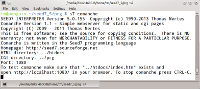
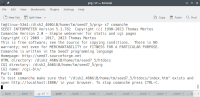
Update homepage

diff --git a/manual/types.htm b/manual/types.htm
@@ -1809,9 +1809,21 @@ Seed7 Manual: Predefined types</title>
                     <span class="stri">"abcde"</span>[2 <span class="keywd">len</span> 3] <b>&rArr;</b> <span class="stri">"bcd"</span>,
                     <span class="stri">"abcde"</span>[2 <span class="keywd">len</span> 5] <b>&rArr;</b> <span class="stri">"bcde"</span>,
                     <span class="stri">"abcde"</span>[3 <span class="keywd">len</span> 0] <b>&rArr;</b> <span class="stri">""</span>,
+                    <span class="stri">"abcde"</span>[6 <span class="keywd">len</span> 2] <b>&rArr;</b> <span class="stri">""</span>,
                     <span class="stri">"abcde"</span>[3 <span class="keywd">len</span> -1] <b>&rArr;</b> EXCEPTION <a class="exception" href="errors.htm#INDEX_ERROR">INDEX_ERROR</a>,
                     <span class="stri">"abcde"</span>[1 <span class="keywd">len</span> 2] <b>&rArr;</b> <span class="stri">"ab"</span>,
                     <span class="stri">"abcde"</span>[0 <span class="keywd">len</span> 2] <b>&rArr;</b> EXCEPTION <a class="exception" href="errors.htm#INDEX_ERROR">INDEX_ERROR</a> )
+      <a class="op" href="../libraries/string.htm#(in_string)[(in_integer)fixLen(in_integer)]">[</a> A <a class="op" href="../libraries/string.htm#(in_string)[(in_integer)fixLen(in_integer)]">fixLen</a> B <a class="op" href="../libraries/string.htm#(in_string)[(in_integer)fixLen(in_integer)]">]</a> Access a substring from position A with guaranteed length B
+                  ( Type of arguments A and B: <a class="type" href="#integer">integer</a>,
+                    S<a class="op" href="../libraries/string.htm#(in_string)[(in_integer)fixLen(in_integer)]">[</a>A <a class="op" href="../libraries/string.htm#(in_string)[(in_integer)fixLen(in_integer)]">fixLen</a> B<a class="op" href="../libraries/string.htm#(in_string)[(in_integer)fixLen(in_integer)]">]</a> is okay for A >= 1 and A <= length(S) and
+                          B >= 0 and pred(A + B) <= length(S),
+                    <span class="stri">"abcde"</span>[2 <span class="keywd">fixLen</span> 3] <b>&rArr;</b> <span class="stri">"bcd"</span>,
+                    <span class="stri">"abcde"</span>[2 <span class="keywd">fixLen</span> 5] <b>&rArr;</b> EXCEPTION <a class="exception" href="errors.htm#INDEX_ERROR">INDEX_ERROR</a>,
+                    <span class="stri">"abcde"</span>[3 <span class="keywd">fixLen</span> 0] <b>&rArr;</b> <span class="stri">""</span>,
+                    <span class="stri">"abcde"</span>[6 <span class="keywd">fixLen</span> 2] <b>&rArr;</b> EXCEPTION <a class="exception" href="errors.htm#INDEX_ERROR">INDEX_ERROR</a>,
+                    <span class="stri">"abcde"</span>[3 <span class="keywd">fixLen</span> -1] <b>&rArr;</b> EXCEPTION <a class="exception" href="errors.htm#INDEX_ERROR">INDEX_ERROR</a>,
+                    <span class="stri">"abcde"</span>[1 <span class="keywd">fixLen</span> 2] <b>&rArr;</b> <span class="stri">"ab"</span>,
+                    <span class="stri">"abcde"</span>[0 <span class="keywd">fixLen</span> 2] <b>&rArr;</b> EXCEPTION <a class="exception" href="errors.htm#INDEX_ERROR">INDEX_ERROR</a> )
       <a class="op" href="../libraries/string.htm#(in_string)[(in_integer).._]">[</a> A <a class="op" href="../libraries/string.htm#(in_string)[(in_integer).._]">..</a> <a class="op" href="../libraries/string.htm#(in_string)[(in_integer).._]">]</a>  Access a substring beginning at position A
                   ( Type of argument A: <a class="type" href="#integer">integer</a>,
                     S<a class="op" href="../libraries/string.htm#(in_string)[(in_integer).._]">[</a>A <a class="op" href="../libraries/string.htm#(in_string)[(in_integer).._]">..</a><a class="op" href="../libraries/string.htm#(in_string)[(in_integer).._]">]</a> is okay for A >= 1,

diff --git a/scrshots/comanche.htm b/scrshots/comanche.htm
@@ -137,25 +137,43 @@ or superuser/administrator privileges.
 <p>
 Comanche can be called from a command window with:
 </p><pre class="indent">
-comanche [-h | -?] [-p port] [-tls] [html-directory [cgi-directory]]
+comanche [-h | -?] [-p port] [-c cgi-name] [-tls] [html-dir [cgi-dir [env-file]]]
 </pre><p>
-The <tt>'html-directory'</tt> specifies the root directory for HTML files.
-The default <tt>'html-directory'</tt> is <tt><span class="stri">"../htdocs"</span></tt>.
-The <tt>'cgi-directory'</tt> specifies the root directory for CGI scripts.
-The default <tt>'cgi-directory'</tt> is <tt><span class="stri">"../prg"</span></tt>.
-The default <tt>'port'</tt> is <tt>1080</tt>.
+Options:
+</p><table border="0" cellspacing="0">
+<tr><td width="20"></td> <td><b>-h</b> or <b>-?</b></td> <td>&nbsp;&nbsp;</td> <td>Write usage information.</td></tr>
+<tr><td width="20"></td> <td><b>-p</b> <span class="keywd">port</span></td> <td>&nbsp;&nbsp;</td> <td>Specify the port (default: <tt><span class="stri">1080</span></tt>).</td></tr>
+<tr><td width="20"></td> <td><b>-c</b> <span class="keywd">cgi-name</span></td> <td>&nbsp;&nbsp;</td> <td>Specify the cgi-name used in the HTTP(S) requests (default: <tt><span class="stri">/cgi-bin/</span></tt>). If cgi-name is <tt><span class="stri">""</span></tt> the cgi-name is taken from cgi-dir.</td></tr>
+<tr><td width="20"></td> <td><b>-tls</b></td> <td>&nbsp;&nbsp;</td> <td>Use HTTPS instead of HTTP.</td></tr>
+</table><p>
+Parameters:
+</p><table border="0" cellspacing="0">
+<tr><td width="20"></td> <td>html-dir</td> <td>&nbsp;&nbsp;</td> <td>The root directory for HTML files (default: <tt><span class="stri">../htdocs</span></tt>).</td></tr>
+<tr><td width="20"></td> <td>cgi-dir</td> <td>&nbsp;&nbsp;</td> <td>The root directory for CGI scripts (default: <tt><span class="stri">../prg</span></tt>).</td></tr>
+<tr><td width="20"></td> <td>env-file</td> <td>&nbsp;&nbsp;</td> <td>Property file with environment variables to be defined.</td></tr>
+</table><p>
 Example of a comanche usage:
 </p><pre class="indent">
 s7 comanche
 </pre><p>
-When comanche is started it writes some information about
+When comanche is started, it writes some information about
 its parameters:
 </p><pre class="indent">
-HTML directory: ../htdocs
-CGI directory: ../prg
+SEED7 INTERPRETER Version 5.1.782  Copyright (c) 1990-2023 Thomas Mertes
+Comanche Version 2.0 - Simple webserver for static and cgi pages
+Copyright (C) 2009 - 2017, 2023 Thomas Mertes
+This is free software; see the source for copying conditions.  There is NO
+warranty; not even for MERCHANTABILITY or FITNESS FOR A PARTICULAR PURPOSE.
+Comanche is written in the Seed7 programming language
+Homepage: http://seed7.sourceforge.net
+HTML directory: /disk2_460GiB/home/tm/seed7_5/htdocs
+CGI directory: /disk2_460GiB/home/tm/seed7_5/prg
+CGI name: /cgi-bin/
 Port: 1080
+To test comanche make sure that "/disk2_460GiB/home/tm/seed7_5/htdocs/index.htm" exists and
+open http://localhost:1080/ in your browser. To stop comanche press CTRL-C.
 </pre><p>
-If the file <tt><span class="stri">"../htdocs/index.htm"</span></tt> exists you
+If the file <tt><span class="stri">"../htdocs/index.htm"</span></tt> exists, you
 can open it with <tt>http://localhost:1080/</tt> in your browser.
 The CGI program <tt><span class="stri">"../prg/cgiExample"</span></tt> can be opened with
 <tt>http://localhost:1080/cgi-bin/cgiExample</tt> in your browser.
@@ -185,7 +203,7 @@ Afterwards Comanche can be started from the directory <nobr>'seed7/prg'</nobr> w
 </p><pre class="indent">
 s7 comanche
 </pre><p>
-Comanche can be also compiled with:
+Comanche can be compiled with:
 </p><pre class="indent">
 s7c comanche
 </pre><p>

diff --git a/prg/comanche.htm b/prg/comanche.htm
@@ -117,11 +117,12 @@ $ <span class="keywd">include</span> <span class="stri">"<a class="lib" href="..
       writeln(<span class="stri">"usage: comanche [-h | -?] [-p port] [-c cgi-name] [-tls] [html-dir [cgi-dir [env-file]]]"</span>);
       writeln;
       writeln(<span class="stri">"Options:"</span>);
+      writeln(<span class="stri">"  -h  or  -?   Write usage information."</span>);
       writeln(<span class="stri">"  -p port      Specify the port (default: 1080)."</span>);
       writeln(<span class="stri">"  -c cgi-name  Specify the cgi-name used in the HTTP(S) requests (default: "</span> &lt;&amp;
               literal(cgiNameDefault) &lt;&amp; <span class="stri">")."</span>);
       writeln(<span class="stri">"               If cgi-name is \"\" the cgi-name is taken from cgi-dir."</span>);
-      writeln(<span class="stri">"  -tls         Use HTTPS is used instead of HTTP."</span>);
+      writeln(<span class="stri">"  -tls         Use HTTPS instead of HTTP."</span>);
       writeln(<span class="stri">"Parameters:"</span>);
       writeln(<span class="stri">"  html-dir     The root directory for HTML files (default: "</span> &lt;&amp;
               literal(htdocsDefault) &lt;&amp; <span class="stri">")."</span>);
@@ -163,6 +164,7 @@ $ <span class="keywd">include</span> <span class="stri">"<a class="lib" href="..
       <span class="keywd">if</span> <span class="op">not</span> okay <span class="keywd">then</span>
         writeln(<span class="stri">"Use the option -? (or -h) to get more information."</span>);
       <span class="keywd">else</span>
+        chdir(responseData.cgiDir);
         writeln(<span class="stri">"HTML directory: "</span> &lt;&amp; responseData.htdocs);
         writeln(<span class="stri">"CGI directory: "</span> &lt;&amp; responseData.cgiDir);
         writeln(<span class="stri">"CGI name: "</span> &lt;&amp; responseData.cgiName);

diff --git a/prg/lzw.htm b/prg/lzw.htm
@@ -464,11 +464,6 @@ Seed7 Program listing</title>
   <span class="keywd">end</span> <span class="keywd">func</span>;
 
 
-<span class="comment"># The function lzwEncodeMsb() is deprecated. Use lzwCompressMsbEarlyChange() instead.</span>
-<span class="keywd">const</span> <span class="type">func</span> <span class="type">string</span>: lzwEncodeMsb (<span class="op">in</span> <span class="type">string</span>: uncompressed) <span class="keywd">is</span>
-    <span class="keywd">return</span> lzwCompressMsbEarlyChange(uncompressed, 8);
-
-
 <span class="comment">(**
  *  Decompress an Lempel-Ziv-Welch (LZW) compressed [[bitdata#msbBitStream|msbBitStream]].
  *  The packing order of bits in bytes is MSB-First (Most Significant
@@ -686,11 +681,6 @@ Seed7 Program listing</title>
     compressedStream := openMsbBitStream(compressed);
     decompressed := lzwDecompressEarlyChange(compressedStream, codeSize, requestedLength);
   <span class="keywd">end</span> <span class="keywd">func</span>;
-
-
-<span class="comment"># The function lzwDecodeMsb() is deprecated. Use lzwDecompressMsbEarlyChange() instead.</span>
-<span class="keywd">const</span> <span class="type">func</span> <span class="type">string</span>: lzwDecodeMsb (<span class="op">in</span> <span class="type">string</span>: compressed) <span class="keywd">is</span>
-    <span class="keywd">return</span> lzwDecompressMsbEarlyChange(compressed, 8);
 </pre>
 </body>
 </html>

diff --git a/prg/http_response.htm b/prg/http_response.htm
@@ -46,6 +46,7 @@ Seed7 Program listing</title>
 
 <span class="keywd">include</span> <span class="stri">"<a class="lib" href="../prg/httpserv.htm">httpserv.s7i</a>"</span>;
 <span class="keywd">include</span> <span class="stri">"<a class="lib" href="../prg/filesys.htm">filesys.s7i</a>"</span>;
+<span class="keywd">include</span> <span class="stri">"<a class="lib" href="../prg/osfiles.htm">osfiles.s7i</a>"</span>;
 <span class="keywd">include</span> <span class="stri">"<a class="lib" href="../prg/shell.htm">shell.s7i</a>"</span>;
 
 
@@ -62,8 +63,8 @@ Seed7 Program listing</title>
   <span class="keywd">result</span>
     <span class="keywd">var</span> <span class="type">httpResposeData</span>: responseData <span class="keywd">is</span> httpResposeData.value;
   <span class="keywd">begin</span>
-    responseData.htdocs := htdocs;
-    responseData.cgiDir := cgiDir;
+    responseData.htdocs := toAbsPath(getcwd(backendSys), htdocs);
+    responseData.cgiDir := toAbsPath(getcwd(backendSys), cgiDir);
     responseData.cgiName := cgiName;
     responseData.backendSys := backendSys;
   <span class="keywd">end</span> <span class="keywd">func</span>;

diff --git a/prg/osfiles.htm b/prg/osfiles.htm
@@ -503,9 +503,9 @@ Seed7 Program listing</title>
 
 <span class="comment">(**
  *  Determine the absolute path for a given ''path''.
- *   toAbsolute(getcwd, "aFile")    -->  Returns e.g. "/home/myuser/aFile"
- *   toAbsolute(".", "aFile")       -->  Returns e.g. "/home/myuser/aFile"
- *   toAbsolute("/usr", "include")  -->  Returns "/usr/include"
+ *   toAbsPath(getcwd, "aFile")    -->  Returns e.g. "/home/myuser/aFile"
+ *   toAbsPath(".", "aFile")       -->  Returns e.g. "/home/myuser/aFile"
+ *   toAbsPath("/usr", "include")  -->  Returns "/usr/include"
  *  @param basePath Path of the base location. The relative ''path'' is
  *         relative to this location.
  *  @param path Absolute or relative path for which the absolute path should

diff --git a/libraries/osfiles.htm b/libraries/osfiles.htm
@@ -847,9 +847,9 @@ const func string: <b>toAbsPath</b> (in string: basePath, in string: path)</p><d
 Determine the absolute path for a given <i>path</i>.
 </p>
 <pre class="indent">
-toAbsolute(getcwd, "aFile")    -->  Returns e.g. "/home/myuser/aFile"
-toAbsolute(".", "aFile")       -->  Returns e.g. "/home/myuser/aFile"
-toAbsolute("/usr", "include")  -->  Returns "/usr/include"
+toAbsPath(getcwd, "aFile")    -->  Returns e.g. "/home/myuser/aFile"
+toAbsPath(".", "aFile")       -->  Returns e.g. "/home/myuser/aFile"
+toAbsPath("/usr", "include")  -->  Returns "/usr/include"
 </pre>
 </dd>
 <dd><dl><dt><b>Parameters:</b></dt>
